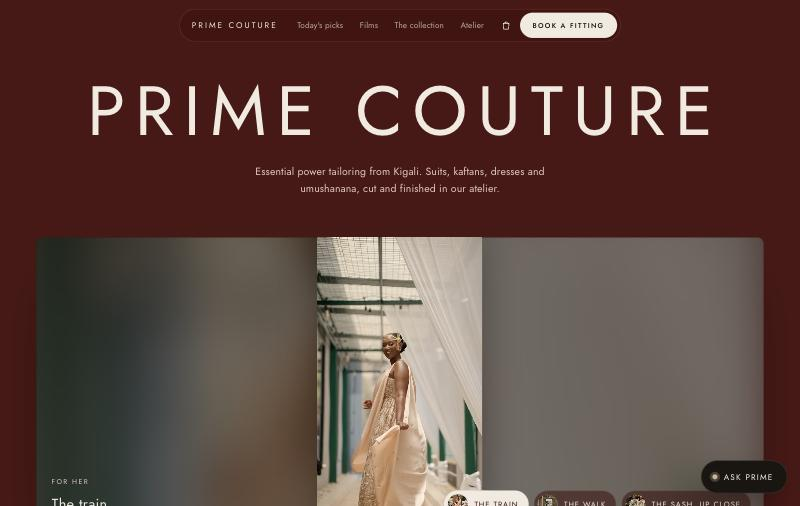
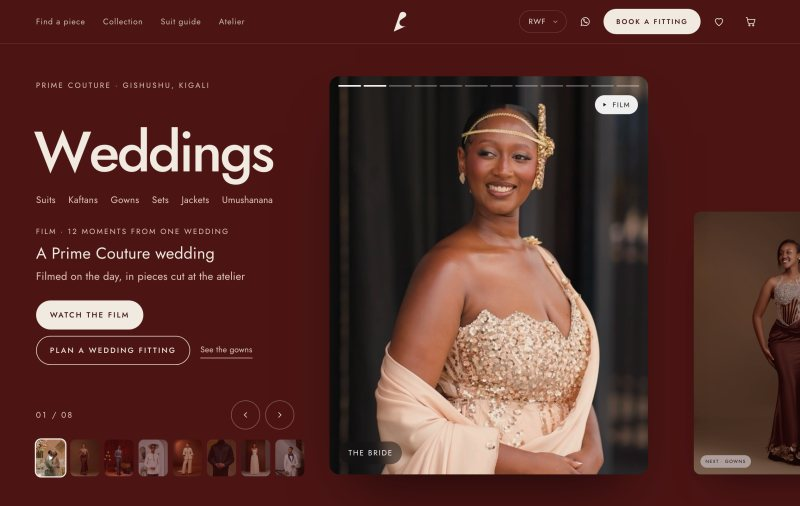
Update the share preview image

diff --git a/atelier.html b/atelier.html
@@ -7,9 +7,13 @@
 <meta name="robots" content="noindex, nofollow, noimageindex, noarchive">
 <meta name="description" content="Prime Couture, Kigali. A website redesign concept.">
 <meta property="og:title" content="Inside the Prime Couture atelier">
-<meta property="og:description" content="Essential power tailoring from Kigali. A website redesign concept.">
-<meta property="og:image" content="https://angenicole.github.io/prime-couture/img/after.jpg">
+<meta property="og:description" content="Suits, kaftans, gowns and umushanana, tailored in Kigali. A website redesign concept.">
+<meta property="og:image" content="https://angenicole.github.io/prime-couture/img/share-v2.jpg">
+<meta property="og:image:width" content="1200">
+<meta property="og:image:height" content="630">
 <meta property="og:type" content="website">
+<meta name="twitter:card" content="summary_large_image">
+<meta name="twitter:image" content="https://angenicole.github.io/prime-couture/img/share-v2.jpg">
 
 <link rel="preconnect" href="https://fonts.googleapis.com">
 <link rel="preconnect" href="https://fonts.gstatic.com" crossorigin>

diff --git a/suits.html b/suits.html
@@ -7,9 +7,13 @@
 <meta name="robots" content="noindex, nofollow, noimageindex, noarchive">
 <meta name="description" content="Prime Couture, Kigali. A website redesign concept.">
 <meta property="og:title" content="Know your suit, Prime Couture">
-<meta property="og:description" content="Essential power tailoring from Kigali. A website redesign concept.">
-<meta property="og:image" content="https://angenicole.github.io/prime-couture/img/after.jpg">
+<meta property="og:description" content="Suits, kaftans, gowns and umushanana, tailored in Kigali. A website redesign concept.">
+<meta property="og:image" content="https://angenicole.github.io/prime-couture/img/share-v2.jpg">
+<meta property="og:image:width" content="1200">
+<meta property="og:image:height" content="630">
 <meta property="og:type" content="website">
+<meta name="twitter:card" content="summary_large_image">
+<meta name="twitter:image" content="https://angenicole.github.io/prime-couture/img/share-v2.jpg">
 
 <link rel="preconnect" href="https://fonts.googleapis.com">
 <link rel="preconnect" href="https://fonts.gstatic.com" crossorigin>

diff --git a/shop.html b/shop.html
@@ -7,9 +7,13 @@
 <meta name="robots" content="noindex, nofollow, noimageindex, noarchive">
 <meta name="description" content="Prime Couture, Kigali. A website redesign concept.">
 <meta property="og:title" content="The Prime Couture collection">
-<meta property="og:description" content="Essential power tailoring from Kigali. A website redesign concept.">
-<meta property="og:image" content="https://angenicole.github.io/prime-couture/img/after.jpg">
+<meta property="og:description" content="Suits, kaftans, gowns and umushanana, tailored in Kigali. A website redesign concept.">
+<meta property="og:image" content="https://angenicole.github.io/prime-couture/img/share-v2.jpg">
+<meta property="og:image:width" content="1200">
+<meta property="og:image:height" content="630">
 <meta property="og:type" content="website">
+<meta name="twitter:card" content="summary_large_image">
+<meta name="twitter:image" content="https://angenicole.github.io/prime-couture/img/share-v2.jpg">
 
 <link rel="preconnect" href="https://fonts.googleapis.com">
 <link rel="preconnect" href="https://fonts.gstatic.com" crossorigin>

diff --git a/index.html b/index.html
@@ -7,9 +7,13 @@
 <meta name="robots" content="noindex, nofollow, noimageindex, noarchive">
 <meta name="description" content="Prime Couture, Kigali. A website redesign concept.">
 <meta property="og:title" content="Prime Couture">
-<meta property="og:description" content="Essential power tailoring from Kigali. A website redesign concept.">
-<meta property="og:image" content="https://angenicole.github.io/prime-couture/img/after.jpg">
+<meta property="og:description" content="Suits, kaftans, gowns and umushanana, tailored in Kigali. A website redesign concept.">
+<meta property="og:image" content="https://angenicole.github.io/prime-couture/img/share-v2.jpg">
+<meta property="og:image:width" content="1200">
+<meta property="og:image:height" content="630">
 <meta property="og:type" content="website">
+<meta name="twitter:card" content="summary_large_image">
+<meta name="twitter:image" content="https://angenicole.github.io/prime-couture/img/share-v2.jpg">
 
 <link rel="preconnect" href="https://fonts.googleapis.com">
 <link rel="preconnect" href="https://fonts.gstatic.com" crossorigin>

diff --git a/site.html b/site.html
@@ -7,9 +7,13 @@
 <meta name="robots" content="noindex, nofollow, noimageindex, noarchive">
 <meta name="description" content="Prime Couture, Kigali. A website redesign concept.">
 <meta property="og:title" content="Prime Couture">
-<meta property="og:description" content="Essential power tailoring from Kigali. A website redesign concept.">
-<meta property="og:image" content="https://angenicole.github.io/prime-couture/img/after.jpg">
+<meta property="og:description" content="Suits, kaftans, gowns and umushanana, tailored in Kigali. A website redesign concept.">
+<meta property="og:image" content="https://angenicole.github.io/prime-couture/img/share-v2.jpg">
+<meta property="og:image:width" content="1200">
+<meta property="og:image:height" content="630">
 <meta property="og:type" content="website">
+<meta name="twitter:card" content="summary_large_image">
+<meta name="twitter:image" content="https://angenicole.github.io/prime-couture/img/share-v2.jpg">
 
 <link rel="preconnect" href="https://fonts.googleapis.com">
 <link rel="preconnect" href="https://fonts.gstatic.com" crossorigin>

diff --git a/pitch.html b/pitch.html
@@ -6,9 +6,13 @@
 <meta name="robots" content="noindex, nofollow, noimageindex, noarchive">
 <meta name="description" content="Prime Couture, Kigali. A website redesign concept.">
 <meta property="og:title" content="Prime Couture, revisited">
-<meta property="og:description" content="Essential power tailoring from Kigali. A website redesign concept.">
-<meta property="og:image" content="https://angenicole.github.io/prime-couture/img/after.jpg">
+<meta property="og:description" content="Suits, kaftans, gowns and umushanana, tailored in Kigali. A website redesign concept.">
+<meta property="og:image" content="https://angenicole.github.io/prime-couture/img/share-v2.jpg">
+<meta property="og:image:width" content="1200">
+<meta property="og:image:height" content="630">
 <meta property="og:type" content="website">
+<meta name="twitter:card" content="summary_large_image">
+<meta name="twitter:image" content="https://angenicole.github.io/prime-couture/img/share-v2.jpg">
 <style>body{margin:0}</style>
 </head>
 <body>
